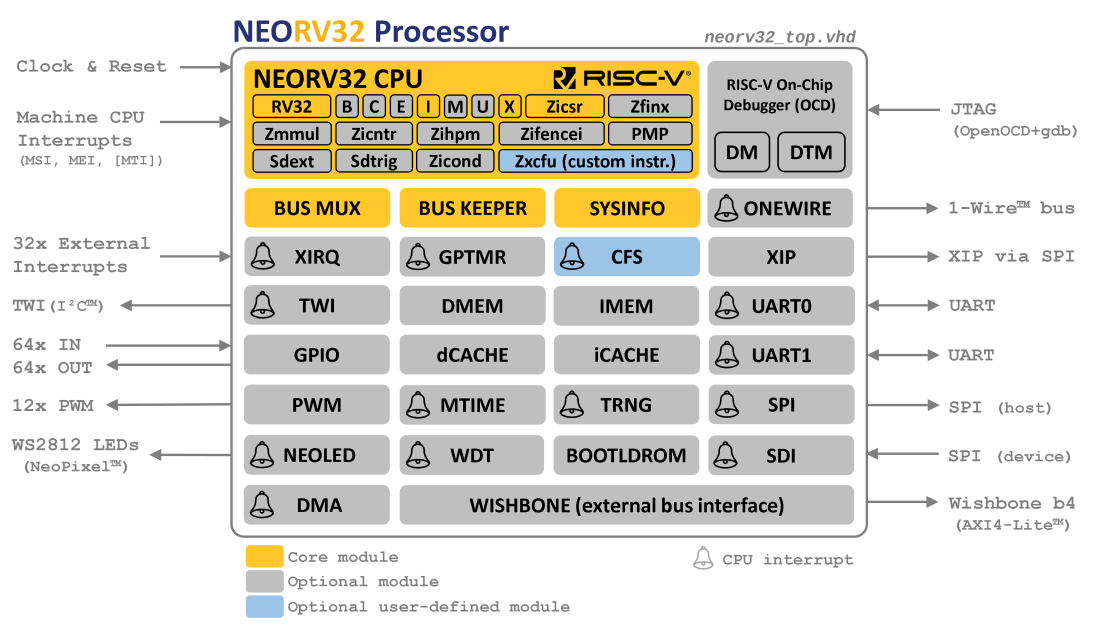
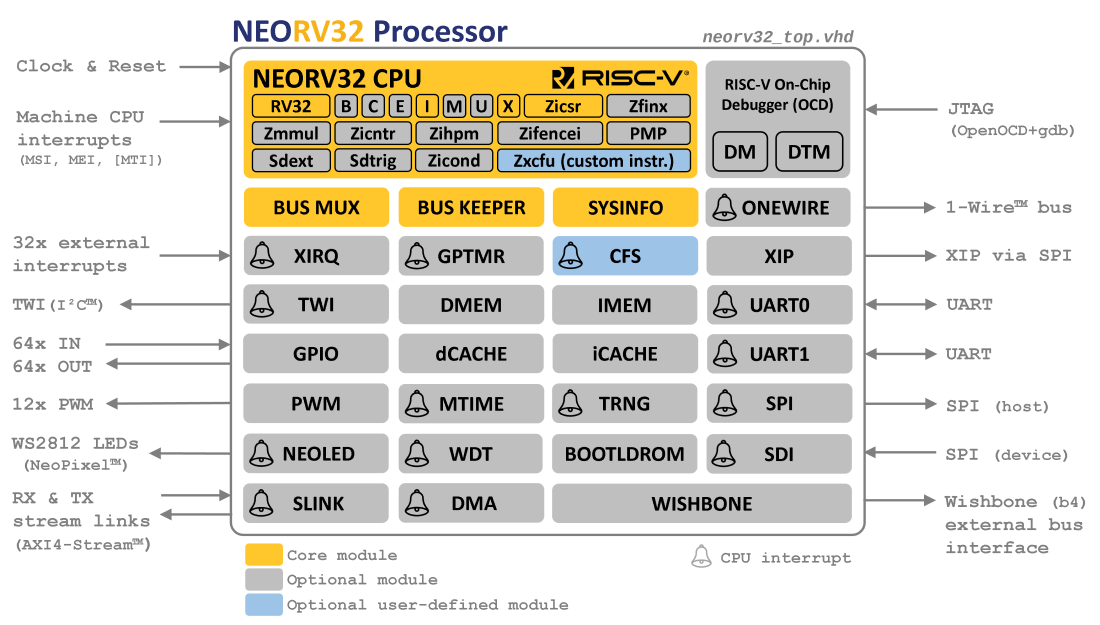
[docs] add SLINK

diff --git a/README.md b/README.md
@@ -168,6 +168,8 @@ allows booting application code via UART or from external SPI flash
 * 32-bit external bus interface - Wishbone b4 compatible
 ([WISHBONE](https://stnolting.github.io/neorv32/#_processor_external_memory_interface_wishbone));
 [wrappers](https://github.com/stnolting/neorv32/blob/main/rtl/system_integration) for AXI4-Lite and Avalon-MM host interfaces
+* stream link interface with independent RX and TX channels - AXI4-Stream compatible
+([SLINK](https://stnolting.github.io/neorv32/#_stream_link_interface_slink))
 * external interrupts controller with up to 32 channels
 ([XIRQ](https://stnolting.github.io/neorv32/#_external_interrupt_controller_xirq))
 
